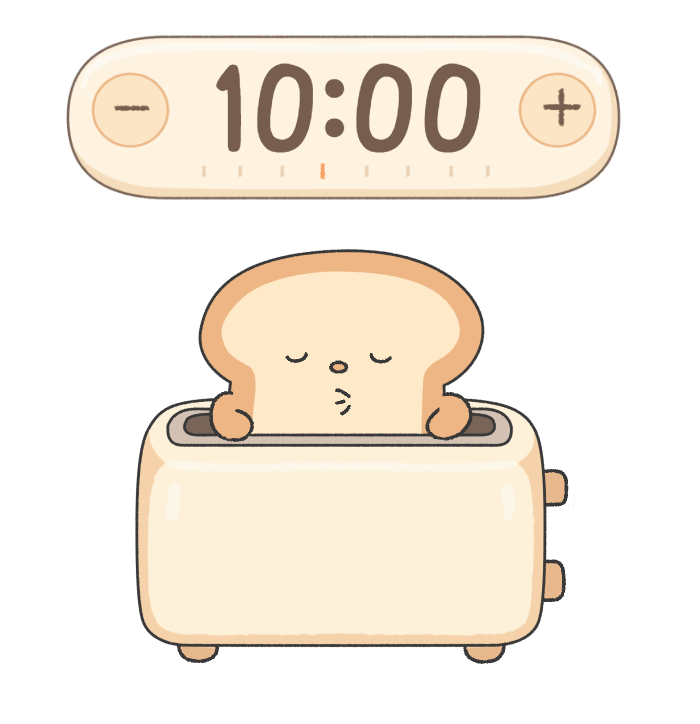
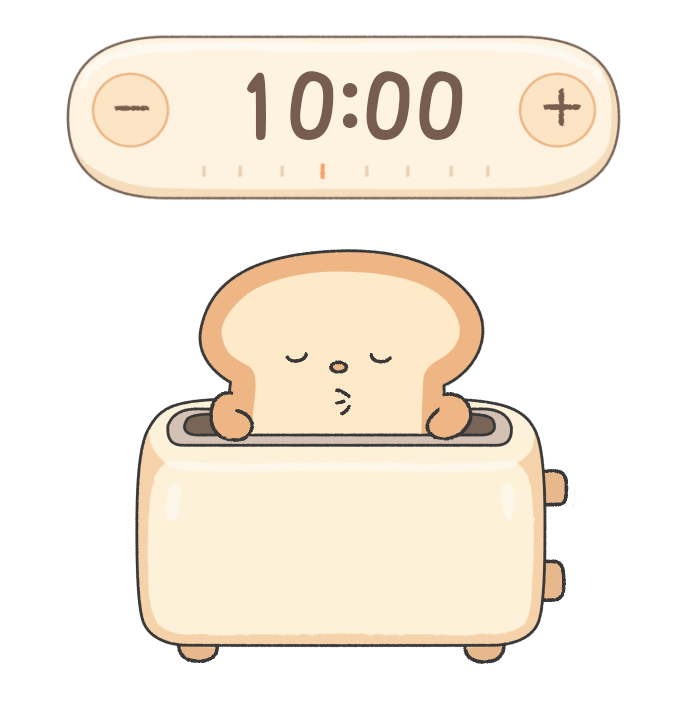
타이머 미리보기를 실제 위젯 동작과 일치

Changed region(s): [[0.3, 0.0912, 0.69, 0.2127]]

diff --git a/docs/timer-builder/index.html b/docs/timer-builder/index.html
@@ -582,6 +582,9 @@
 </footer>
 
 <script>
+// 실제 Android 위젯(FrameAnimationController.MIN_FRAME_DURATION_MS)과 같은 계약값.
+const WIDGET_MIN_FRAME_MS = 90;
+
 const STATES = [
   { key: "stop",     title: "정지", sub: "타이머 미작동 기본 모습", req: true,  defDur: 1000 },
   { key: "running",  title: "작동", sub: "타이머 카운트다운 중", req: true,  defDur: 500 },
@@ -769,13 +772,18 @@ function buildFrameCard(host, cfg) {
     <div class="drop" data-state="${cfg.key}">＋ 이미지 끌어다 놓기 / 클릭해서 선택 (여러 장 가능)</div>
     <ul class="frames" id="frames_${cfg.key}"></ul>
     <div class="anim-row"><div class="anim-box"><img id="anim_${cfg.key}" alt=""></div><span class="anim-cap" id="animcap_${cfg.key}">프레임 없음</span></div>
-    <div class="dur">프레임 간격 <input type="number" min="50" step="50" value="${cfg.defDur}" data-dur="${cfg.key}"> ms</div>
+    <div class="dur">프레임 간격 <input type="number" min="${WIDGET_MIN_FRAME_MS}" step="10" value="${cfg.defDur}" data-dur="${cfg.key}"> ms</div>
     <label class="loopchk"><input type="checkbox" data-pingpong="${cfg.key}"> 순환(왕복) — 01-02-03-04-03-02 식으로 되돌아오며 한 세트</label>`;
   host.appendChild(card);
 
   wireDropZone(card.querySelector(".drop"), files => addFrames(cfg.key, files));
   card.querySelector("[data-dur]").addEventListener("input", e => {
     store[cfg.key].dur = parseInt(e.target.value) || cfg.defDur; renderStatePreview(cfg.key); refresh();
+  });
+  card.querySelector("[data-dur]").addEventListener("change", e => {
+    store[cfg.key].dur = normalizedFrameDurationMs(e.target.value, cfg.defDur);
+    e.target.value = store[cfg.key].dur;
+    renderStatePreview(cfg.key); refresh();
   });
   card.querySelector("[data-pingpong]").addEventListener("change", e => {
     store[cfg.key].pingpong = e.target.checked; renderStatePreview(cfg.key); refresh();
@@ -797,30 +805,129 @@ function buildInterludeCard() {
   });
   // 주기·길이 입력은 값만 바뀌어도 검증/상태를 갱신.
   $("itlEveryMin").addEventListener("input", refresh);
-  $("itlDurSec").addEventListener("input", refresh);
+  $("itlDurSec").addEventListener("input", () => { renderStatePreview("interlude"); refresh(); });
 }
 
 /* ---------- 상태 프레임 애니메이션 미리보기 ---------- */
 const animTimers = {};
+const animPreviewUrls = {};
+const animRenderVersions = {};
+
+function normalizedFrameDurationMs(value, fallback = 1000) {
+  return Math.max(WIDGET_MIN_FRAME_MS, parseInt(value) || fallback);
+}
+
+function isOneShotPreview(stateKey) {
+  return stateKey === "stop" || stateKey === "pause" || stateKey === "complete";
+}
+
+function interludePreviewDurationMs() {
+  return Math.max(0, Math.round((parseFloat($("itlDurSec").value) || 0) * 1000));
+}
 
 // 재생 순서 objectURL 배열(pingpong 반영) — frameSet()의 이름 확장과 동일 규칙.
 function animUrls(stateKey) {
   return expandPingpong(store[stateKey].frames.map(fr => fr.url), store[stateKey].pingpong);
 }
 
-function renderStatePreview(stateKey) {
+function releaseAnimatedPreview(stateKey) {
+  (animPreviewUrls[stateKey] || []).forEach(url => URL.revokeObjectURL(url));
+  animPreviewUrls[stateKey] = [];
+}
+
+function releaseTimerContext(tctx) {
+  if (!tctx) return;
+  [tctx.bg, ...Object.values(tctx.skinButtons || {})].forEach(bitmap => bitmap?.close?.());
+  if (tctx.fontFace) document.fonts.delete(tctx.fontFace);
+}
+
+async function buildComposedPreviewUrls(stateKey) {
+  const ordered = expandPingpong(store[stateKey].frames, store[stateKey].pingpong);
+  if (!ordered.length) return [];
+  const [bitmaps, tctx] = await Promise.all([
+    Promise.all(ordered.map(frame => createImageBitmap(frame.file))),
+    loadTimerContext(),
+  ]);
+  try {
+    const geom = widgetGeom(bitmaps[0].width, bitmaps[0].height);
+    const canvas = document.createElement("canvas");
+    canvas.width = geom.W; canvas.height = geom.H;
+    const ctx = canvas.getContext("2d");
+    const urls = [];
+    for (const bitmap of bitmaps) {
+      composeWidgetFrame(ctx, geom, bitmap, tctx, stateKey);
+      const blob = await new Promise((resolve, reject) => canvas.toBlob(
+        value => value ? resolve(value) : reject(new Error("미리보기 이미지 생성 실패")),
+        "image/png",
+      ));
+      urls.push(URL.createObjectURL(blob));
+    }
+    return urls;
+  } finally {
+    bitmaps.forEach(bitmap => bitmap.close?.());
+    releaseTimerContext(tctx);
+  }
+}
+
+function refreshAllStatePreviews() {
+  [...STATES.map(state => state.key), "interlude"].forEach(renderStatePreview);
+}
+
+async function renderStatePreview(stateKey) {
   const img = $("anim_" + stateKey);
   const cap = $("animcap_" + stateKey);
   if (!img || !cap) return;
-  if (animTimers[stateKey]) { clearInterval(animTimers[stateKey]); animTimers[stateKey] = null; }
-  const urls = animUrls(stateKey);
-  if (!urls.length) { img.removeAttribute("src"); cap.textContent = "프레임 없음"; return; }
-  const dur = Math.max(50, store[stateKey].dur || 1000);
+  if (animTimers[stateKey]) { clearTimeout(animTimers[stateKey]); animTimers[stateKey] = null; }
+  const renderVersion = (animRenderVersions[stateKey] || 0) + 1;
+  animRenderVersions[stateKey] = renderVersion;
+  releaseAnimatedPreview(stateKey);
+  if (!store[stateKey].frames.length) { img.removeAttribute("src"); cap.textContent = "프레임 없음"; return; }
+  cap.textContent = "실제 위젯 모습으로 합성 중…";
+  let urls;
+  try {
+    urls = await buildComposedPreviewUrls(stateKey);
+  } catch (error) {
+    if (animRenderVersions[stateKey] === renderVersion) cap.textContent = `미리보기 생성 실패: ${error.message}`;
+    return;
+  }
+  if (animRenderVersions[stateKey] !== renderVersion) {
+    urls.forEach(url => URL.revokeObjectURL(url));
+    return;
+  }
+  animPreviewUrls[stateKey] = urls;
+  const dur = normalizedFrameDurationMs(store[stateKey].dur);
   img.src = urls[0];
-  cap.textContent = urls.length === 1 ? "정지 이미지 (1프레임)" : `▶ ${urls.length}프레임 · ${dur}ms`;
+  const playback = stateKey === "running" ? "반복" : stateKey === "interlude" ? "지정 구간" : "1회";
+  cap.textContent = urls.length === 1 ? "정지 이미지 (1프레임)" : `▶ ${urls.length}프레임 · ${dur}ms · ${playback}`;
+  img.onclick = stateKey === "running" || urls.length === 1 ? null : () => renderStatePreview(stateKey);
+  img.title = img.onclick ? "클릭하면 첫 프레임부터 다시 재생합니다." : "";
+  img.style.cursor = img.onclick ? "pointer" : "default";
   if (urls.length > 1) {
-    let i = 0;
-    animTimers[stateKey] = setInterval(() => { i = (i + 1) % urls.length; img.src = urls[i]; }, dur);
+    const startedAt = performance.now();
+    const interludeDuration = stateKey === "interlude" ? interludePreviewDurationMs() : 0;
+    const finishAt = isOneShotPreview(stateKey)
+      ? (urls.length - 1) * dur
+      : (stateKey === "interlude" && interludeDuration > 0 ? interludeDuration : Infinity);
+
+    const renderAtElapsedTime = () => {
+      const elapsed = Math.max(0, performance.now() - startedAt);
+      const finished = elapsed >= finishAt;
+      let index;
+      if (isOneShotPreview(stateKey)) {
+        index = Math.min(Math.floor(elapsed / dur), urls.length - 1);
+      } else {
+        const sampledElapsed = finished ? Math.max(0, finishAt - 1) : elapsed;
+        index = Math.floor(sampledElapsed / dur) % urls.length;
+      }
+      img.src = urls[index];
+      if (finished) { animTimers[stateKey] = null; return; }
+
+      const nextFrameAt = (Math.floor(elapsed / dur) + 1) * dur;
+      const nextWakeAt = Math.min(nextFrameAt, finishAt);
+      const delay = Math.max(0, nextWakeAt - (performance.now() - startedAt));
+      animTimers[stateKey] = setTimeout(renderAtElapsedTime, delay);
+    };
+    renderAtElapsedTime();
   }
 }
 
@@ -918,7 +1025,7 @@ function buildAssetSlot(slotId, label, accept) {
         <button class="clear-x" type="button" title="제거">✕</button></div>`;
       view.querySelector(".clear-x").onclick = () => {
         if (a.url) URL.revokeObjectURL(a.url);
-        delete assets[slotId]; render(); refresh();
+        delete assets[slotId]; render(); refreshAllStatePreviews(); refresh();
       };
     }
   }
@@ -926,7 +1033,7 @@ function buildAssetSlot(slotId, label, accept) {
     const f = input.files[0]; input.value = "";
     if (!f) return;
     assets[slotId] = { slotId, file: f, url: URL.createObjectURL(f), outName: outNameFor(slotId, f) };
-    render(); refresh();
+    render(); refreshAllStatePreviews(); refresh();
   });
   assetRenderers[slotId] = render;
   render();
@@ -1059,6 +1166,7 @@ async function loadTimerContext() {
     skinButtons: {},                         // 스킨 버튼 PNG(올린 것만)
     fontFamily: "monospace",                 // 내장 폰트는 앱에서 monospace 고정(setFontFamily 비-remotable)
     fontColor: cssColor($("fontColor").value, DIGIT_INK),
+    fontFace: null,
   };
   for (const b of BUTTONS) {
     if (assets[b.key]) tctx.skinButtons[b.key] = await createImageBitmap(assets[b.key].file);
@@ -1071,6 +1179,7 @@ async function loadTimerContext() {
       await face.load();
       document.fonts.add(face);
       tctx.fontFamily = fam;
+      tctx.fontFace = face;
     } catch (e) { /* monospace 유지 */ }
   }
   return tctx;
@@ -1193,7 +1302,8 @@ function composeWidgetFrame(ctx, geom, charBmp, tctx, stateKey) {
 
 /**
  * 한 행동(stateKey)을 위젯 합성으로 렌더한다.
- * - 프레임 순서/속도는 skin.json과 동일하게 pingpong 확장 + store[key].dur(ms).
+ * - 프레임 순서/속도는 실제 위젯과 동일하게 pingpong 확장 + 정규화된 frameDurationMs를 사용한다.
+ * - running은 반복, stop/pause/complete는 1회 재생, interlude는 지정된 구간만 재생한다.
  * - 2프레임↑ → 애니메이션 GIF, 1프레임 → 정지 PNG, 0프레임 → null(건너뜀).
  * 반환: { ext:"gif"|"png", blob } | null.
  */
@@ -1215,18 +1325,35 @@ async function buildWidgetMotionAsset(stateKey, tctx) {
   }
 
   const { GIFEncoder, quantize, applyPalette } = await loadGifenc();
-  const frameData = bitmaps.map(bmp => {
+  const baseFrameData = bitmaps.map(bmp => {
     composeWidgetFrame(ctx, geom, bmp, tctx, stateKey);
     return ctx.getImageData(0, 0, geom.W, geom.H).data;
   });
+  const frameDuration = normalizedFrameDurationMs(st.dur, 200);
+  let frameData = baseFrameData;
+  let frameDelays = baseFrameData.map(() => frameDuration);
+  if (stateKey === "interlude") {
+    const totalDuration = interludePreviewDurationMs();
+    if (totalDuration > 0) {
+      frameData = [];
+      frameDelays = [];
+      for (let elapsed = 0, i = 0; elapsed < totalDuration; i++) {
+        frameData.push(baseFrameData[i % baseFrameData.length]);
+        const delay = Math.min(frameDuration, totalDuration - elapsed);
+        frameDelays.push(delay);
+        elapsed += delay;
+      }
+    }
+  }
   // 전 프레임 공통 팔레트(플리커 방지·용량 절감). 불투명이라 rgb565로 양자화.
-  const merged = new Uint8Array(frameData.reduce((n, d) => n + d.length, 0));
-  { let off = 0; for (const d of frameData) { merged.set(d, off); off += d.length; } }
+  const merged = new Uint8Array(baseFrameData.reduce((n, d) => n + d.length, 0));
+  { let off = 0; for (const d of baseFrameData) { merged.set(d, off); off += d.length; } }
   const palette = quantize(merged, 256, { format: "rgb565" });
   const enc = GIFEncoder();
   frameData.forEach((data, i) => {
     const index = applyPalette(data, palette, "rgb565");
-    enc.writeFrame(index, geom.W, geom.H, { palette, delay: st.dur, repeat: i === 0 ? 0 : undefined });
+    const repeat = i === 0 ? (stateKey === "running" ? 0 : -1) : undefined;
+    enc.writeFrame(index, geom.W, geom.H, { palette, delay: frameDelays[i], repeat });
   });
   enc.finish();
   return { ext: "gif", blob: new Blob([enc.bytesView()], { type: "image/gif" }) };
@@ -1266,7 +1393,7 @@ function buildSkinJson() {
     );
     return {
       frames: names,
-      frameDurationMs: store[stateKey].dur,
+      frameDurationMs: normalizedFrameDurationMs(store[stateKey].dur),
     };
   }
 
@@ -1685,7 +1812,7 @@ async function loadFrameSetInto(zip, prefix, stateKey, frameSet) {
     const file = await fileFromZip(zip, prefix, nm);
     if (file) store[stateKey].frames.push({ id: ++frameSeq, file, url: URL.createObjectURL(file) });
   }
-  store[stateKey].dur = frameSet.frameDurationMs || store[stateKey].dur;
+  store[stateKey].dur = normalizedFrameDurationMs(frameSet.frameDurationMs, store[stateKey].dur);
   store[stateKey].pingpong = pingpong;
   const di = document.querySelector(`[data-dur="${stateKey}"]`); if (di) di.value = store[stateKey].dur;
   const pi = document.querySelector(`[data-pingpong="${stateKey}"]`); if (pi) pi.checked = pingpong;
@@ -2669,8 +2796,12 @@ $("createdAt").value = nowLocalDateTime();
 
 ["skinId", "name", "nameEn", "price", "prestige", "hidden", "saleEnd", "description", "descriptionEn", "buttonStyle", "fontColor", "fontSize", "fontFamily"].forEach(id => {
   const el = $(id);
-  el.addEventListener("input", refresh);
-  el.addEventListener("change", refresh);
+  const update = () => {
+    if (id === "buttonStyle" || id === "fontColor" || id === "fontFamily") refreshAllStatePreviews();
+    refresh();
+  };
+  el.addEventListener("input", update);
+  el.addEventListener("change", update);
 });
 ["giftTargetType", "giftTargetSkinId", "giftLabel", "lifetimePassCodes", "lifetimePassExpiresAt", "lifetimePassGenerateCount", "lifetimePassUsageLimit"].forEach(id => {
   const el = $(id);
